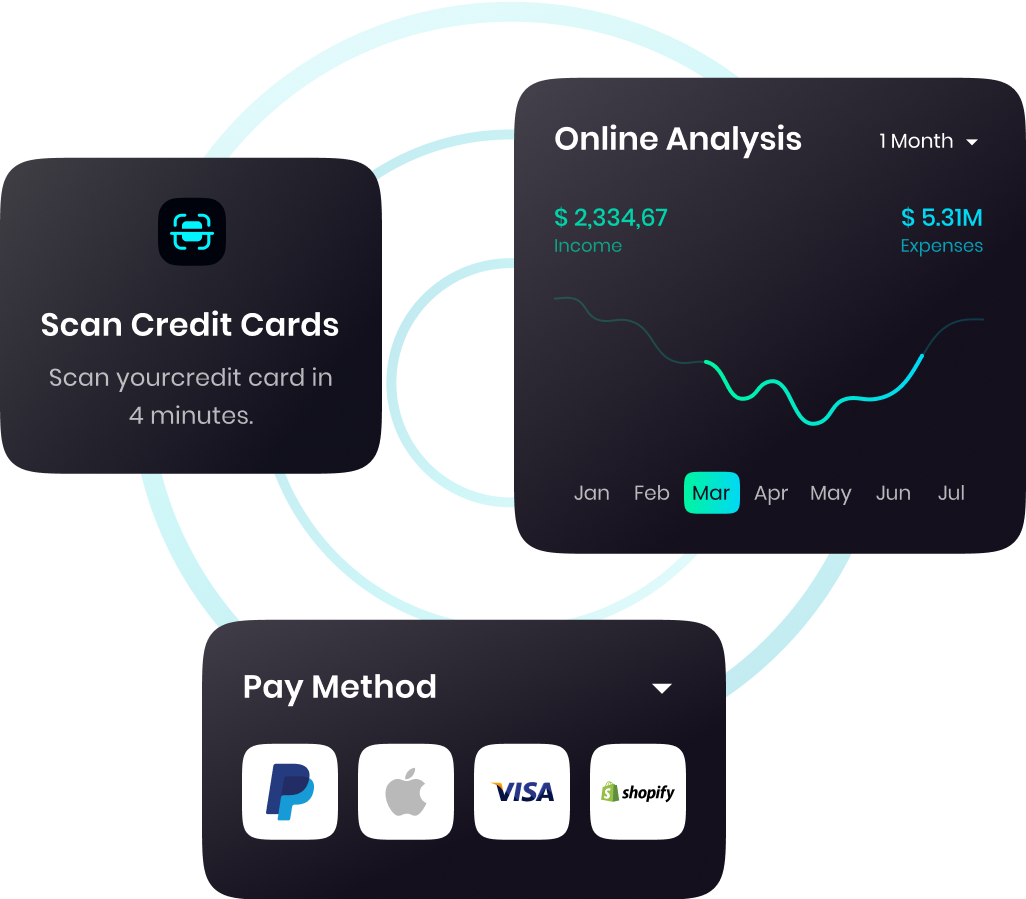
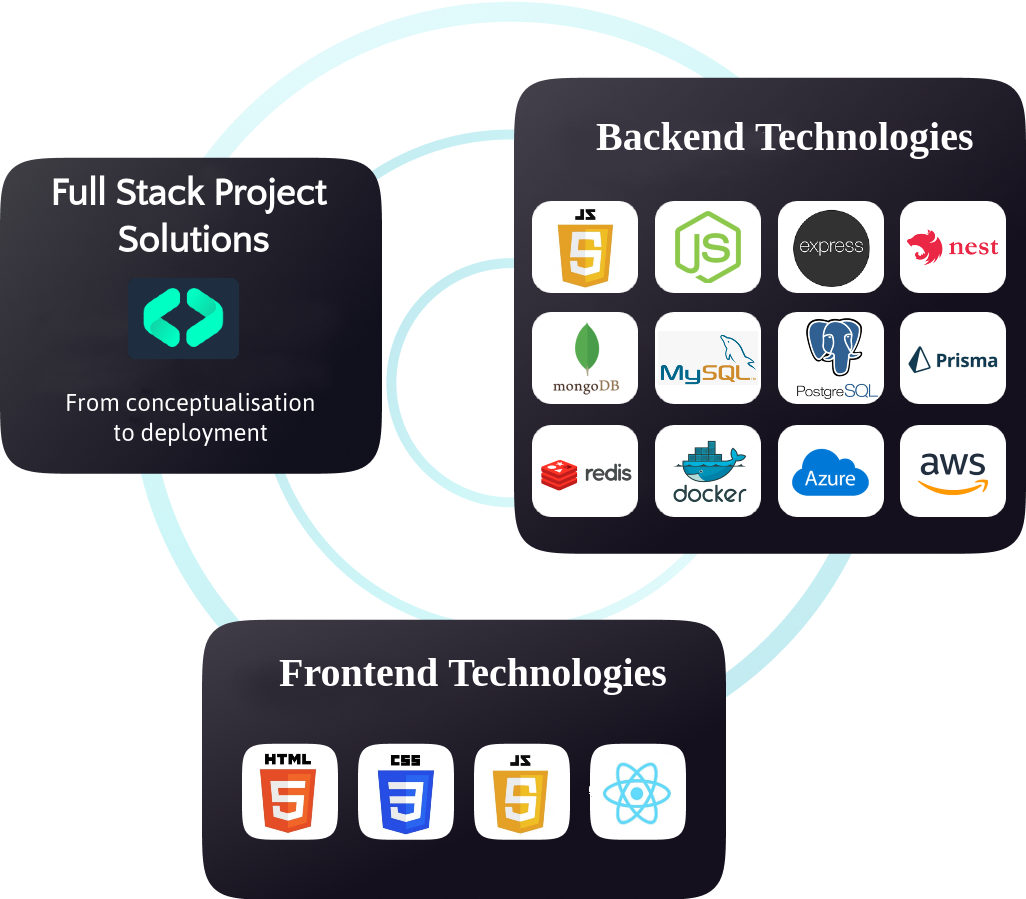
changes

diff --git a/src/constants/index.js b/src/constants/index.js
@@ -32,45 +32,51 @@ export const navLinks = [
     id: "clients",
     title: "Clients",
   },
+  {
+    id: "contactUs",
+    title: "Contact Us",
+  },
 ];
 
 export const features = [
   {
     id: "feature-1",
     icon: star,
-    title: "Rewards",
+    title: "Comprehensive Solutions",
     content:
-      "The best credit cards offer some tantalizing combinations of promotions and prizes",
+      "Our Full Stack Project Solutions encompass both frontend and backend development, providing a comprehensive approach to your academic projects.",
+
   },
   {
     id: "feature-2",
-    icon: shield,
-    title: "100% Secured",
+    icon: send,
+    title: "Customized Development",
     content:
-      "We take proactive steps make sure your information and transactions are secure.",
+      "Our team offers tailored development services, adapting to your specific requirements and academic needs to deliver personalized solutions.",
   },
   {
     id: "feature-3",
-    icon: send,
-    title: "Balance Transfer",
+    icon: shield,
+    title: "Timely Delivery",
     content:
-      "A balance transfer credit card can save you a lot of money in interest charges.",
+      "We are committed to delivering your projects on time, ensuring you meet your academic deadlines and achieve your academic goals.",
   },
 ];
+
 export const feedback = [
   {
     id: "feedback-1",
     content:
       "Exceptional assistance for my projects, achieving top grades.",
-    name: "Emma Johnson",
-    title: "College Student",
+    name: "Swapnil Zoting.",
+    title: "Student",
     img: people01,
   },
   {
     id: "feedback-2",
     content:
       "Timely and high-quality solutions, highly recommend their services.",
-    name: "Ryan Smith",
+    name: "Pratiksha Wanjari.",
     title: "College Student",
     img: people01,
   },
@@ -78,38 +84,13 @@ export const feedback = [
     id: "feedback-3",
     content:
       "Managed my workload effectively, enabling focus on academic life.",
-    name: "Sophia Williams",
+    name: "Himanshu Supare.",
     title: "College Student",
     img: people01,
   },
 ];
 
-/* export const feedback = [
-  {
-    id: "feedback-1",
-    content:
-      "Money is only a tool. It will take you wherever you wish, but it will not replace you as the driver.",
-    name: "Herman Jensen",
-    title: "Founder & Leader",
-    img: people01,
-  },
-  {
-    id: "feedback-2",
-    content:
-      "Money makes your life easier. If you're lucky to have it, you're lucky.",
-    name: "Steve Mark",
-    title: "Founder & Leader",
-    img: people02,
-  },
-  {
-    id: "feedback-3",
-    content:
-      "It is usually people in the money business, finance, and international trade that are really rich.",
-    name: "Kenn Gallagher",
-    title: "Founder & Leader",
-    img: people03,
-  },
-]; */
+
 
 export const stats = [
   {
@@ -240,12 +221,10 @@ export const clients = [
 ];
 
 
-
 export const projects = [
   {
     id: "project-1",
-    content:
-      "Developed an innovative mobile application for campus navigation, enhancing student experience.",
+    content: "Experience a curated showcase of my work, blending creativity. Dive in to explore design excellence tailored for today's digital landscape.",
     name: "John Doe",
     title: "Computer Science Student",
     img: project01, // You can replace this with the actual path to the image for the first project
@@ -253,7 +232,7 @@ export const projects = [
   {
     id: "project-2",
     content:
-      "Designed an interactive website for student organizations, fostering collaboration and engagement.",
+      "Embark on a journey with Travel Website, where one click opens door to new horizons. Discover and create unforgettable memories on our platform.",
     name: "Jane Smith",
     title: "Information Technology Student",
     img: project02, // You can replace this with the actual path to the image for the second project
@@ -269,9 +248,10 @@ export const projects = [
   {
     id: "project-4",
     content:
-      "Created a virtual laboratory platform for remote learning, enabling practical experience from anywhere.",
+    "Discover culinary delights that tantalize your taste buds. Dive into a world of flavors, fresh ingredients, and mouthwatering recipes.",
     name: "Emily Williams",
     title: "Biotechnology Student",
     img: project04, // You can replace this with the actual path to the image for the fourth project
   },
+  
 ];

diff --git a/src/components/CTA.jsx b/src/components/CTA.jsx
@@ -1,18 +1,76 @@
-import React from 'react';
+import React, { useState } from 'react';
 import styles from '../style';
 import Button from './Button';
 
 const CTA = () => {
+  const [formData, setFormData] = useState({
+    name: '',
+    email: '',
+    phone: '',
+    message: ''
+  });
+
+  const handleChange = (e) => {
+    const { name, value } = e.target;
+    setFormData(prevState => ({
+      ...prevState,
+      [name]: value
+    }));
+  };
+
+  const handleSubmit = (e) => {
+    e.preventDefault();
+    console.log(formData); // Handle form submission logic here
+  };
+
   return (
-    <section className={`${styles.flexCenter} ${styles.marginY} ${styles.padding} sm:flex-row flex-col bg-black-gradient-2 rounded-[20px] box-shadow`}>
-      <div className='flex-1 flex flex-col'>
-        <h2 className={styles.heading2}>Get Expert Help for Your Projects!</h2>
-        <p className={`${styles.paragraph} max-w-[470px] mt-5`}>
+    <section   id='contactUs'  className={`${styles.flexCenter} ${styles.marginY} ${styles.padding} sm:flex-row flex-col bg-black-gradient-2 rounded-[20px] box-shadow`}>
+      <div className='flex-1 flex flex-col items-center justify-center text-white'>
+        <h2 className={`${styles.heading2} text-2xl mb-4 text-center`}>Get Expert Help for Your Projects!</h2>
+        <p className={`${styles.paragraph} max-w-[470px] text-center mb-6`}>
           Simplify your academic life with our specialized assistance for college projects. Achieve top grades and focus on what matters most to you.
         </p>
-      </div>
-      <div className={`${styles.flexCenter} sm:ml-10 ml-0`}>
-        <Button/>
+        <form onSubmit={handleSubmit} className="w-full max-w-md px-4">
+          <input 
+            type="text" 
+            name="name" 
+            placeholder="Enter your name..." 
+            value={formData.name} 
+            onChange={handleChange}
+            className={`${styles.input} w-full p-3 mb-4 rounded-md placeholder-gray-400 focus:outline-none focus:ring-2 focus:ring-blue-500`}
+            required
+          />
+          <input 
+            type="email" 
+            name="email" 
+            placeholder="Enter your email..." 
+            value={formData.email} 
+            onChange={handleChange}
+            className={`${styles.input} w-full p-3 mb-4 rounded-md placeholder-gray-400 focus:outline-none focus:ring-2 focus:ring-blue-500`}
+            required
+          />
+          <input 
+            type="tel" 
+            name="phone" 
+            placeholder="Enter your phone number..." 
+            value={formData.phone} 
+            onChange={handleChange}
+            className={`${styles.input} w-full p-3 mb-4 rounded-md placeholder-gray-400 focus:outline-none focus:ring-2 focus:ring-blue-500`}
+            required
+          />
+          <textarea 
+            name="message" 
+            placeholder="Enter your message..." 
+            value={formData.message} 
+            onChange={handleChange}
+            className={`${styles.input} w-full p-3 mb-4 rounded-md placeholder-gray-400 focus:outline-none focus:ring-2 focus:ring-blue-500`}
+            rows="4"
+            required
+          />
+          <Button type="submit" className="bg-white text-blue-500 hover:bg-blue-500 hover:text-white transition duration-300 ease-in-out py-2 px-6 rounded-md shadow-md">
+            Submit
+          </Button>
+        </form>
       </div>
     </section>
   );

diff --git a/src/components/CardDeal.jsx b/src/components/CardDeal.jsx
@@ -6,15 +6,16 @@ import styles, { layout } from '../style'
 const CardDeal = () => {
   return (
     <section className={layout.section}>
-      <div className={layout.sectionInfo}>
-        <h2 className={styles.heading2}>Find a better card deal <br className='sm:block hidden'/>in few easy steps.</h2>
+
+      
+       <div className={layout.sectionInfo}>
+        <h2 className={styles.heading2}>Expertise in Full-Stack Development <br className='sm:block hidden'/>for Your Projects.</h2>
         <p className={`${styles.paragraph} max-w-[470px] mt-5`}>
-          Arcu tortor,
-          purus in mattis at sed integer faucibus.
-          Aliquet quis aliquet eget mauris tortor.ç 
-          Aliquet ultrices ac, ametau.
+          Need help with full-stack projects? 
+          Our team of experts specializes in both front-end and back-end development, providing comprehensive solutions tailored to your academic requirements. 
+          From designing user interfaces to implementing server-side functionalities, we've got you covered.
         </p>
-        <Button styles='mt-10'/>
+        {/* <Button styles='mt-10'/> */}
       </div>
       <div className={layout.sectionImg}>
         <img

diff --git a/src/components/OurProjects.jsx b/src/components/OurProjects.jsx
@@ -17,7 +17,7 @@ const OurProjects = () => {
   };
 
   return (
-    <section id='projects' className={`${styles.paddingY} ${styles.flexce} flex-col relative`}>
+    <section id='product' className={`${styles.paddingY} ${styles.flexce} flex-col relative`}>
       <div className='absolute z-[0] w-[60%] h-[60%] -right-[50%] rounded-full blue__gradient bottom-40' />
       <div className='w-full flex justify-between items-center md:flex-row flex-col sm:mb-16 mb-6 relative z-[1]'>
         <h2 className={styles.heading2}>Our Featured Projects</h2>

diff --git a/src/components/Feedback.jsx b/src/components/Feedback.jsx
@@ -13,11 +13,7 @@ const Feedback = ({ content, name, title, img }) => {
         {content}
       </p>
       <div className='flex flex-row'>
-        <img
-          src={img}
-          alt={name}
-          className='w-[48px] h-[48px] rounded-full'
-        />
+        
         <div className='flex flex-col ml-4'>
           <h4 className='font-poppins font-semibold text-[20px] leading-[32px] text-white'>{name}</h4>
           <p className='font-poppins font-normal text-[16px] leading-[24px] text-white'>{title}</p>

diff --git a/src/components/Billing.jsx b/src/components/Billing.jsx
@@ -1,5 +1,5 @@
 import React from 'react'
-import { apple, bill, google } from '../assets'
+import { apple, bill, google  , card} from '../assets'
 import styles, { layout } from '../style'
 
 const Billing = () => {
@@ -7,7 +7,7 @@ const Billing = () => {
     <section id='product' className={layout.sectionReverse}>
       <div className={layout.sectionImgReverse}>
         <img
-          src={bill}
+          src={card}
           alt='billing'
           className='w-[100%] h-[100%] relative z-[5]'
         />

diff --git a/src/components/Footer.jsx b/src/components/Footer.jsx
@@ -12,10 +12,7 @@ const Footer = () => {
             src={logo}
             alt='logo'
             className='w-[266px] h-[172px] object-contain'
-          />
-          <p className={`${styles.paragraph} mt-4 max-w-[310px]`}>
-            A new way to make the payments easy, reliable and secure.         
-          </p>
+          /> 
         </div>
         <div className='flex-[1.5] w-full flex flex-row justify-between flex-wrap md:mt-0 mt-10'>
           {footerLinks.map((link) => (

diff --git a/src/App.jsx b/src/App.jsx
@@ -29,9 +29,8 @@ const App = () => {
       <div className={`bg-primary ${styles.paddingX} ${styles.flexStart}`}>
         <div className={`${styles.boxWidth}`}>
           <Stats/>
-          <Business/>
-          {/* <Billing/>
-          <CardDeal/>  */}
+          <Business/> 
+          <CardDeal/>   
           <OurProjects/> 
           <Testimonials/>
           {/* <Clients/> */}

diff --git a/src/components/Business.jsx b/src/components/Business.jsx
@@ -35,7 +35,7 @@ const Business = () => {
           But with numerous assignments and deadlines to meet,
           let us simplify your journey to academic success.
         </p>
-        <Button styles='mt-10'/>
+        {/* <Button styles='mt-10' /> */}
       </div>
       <div className={`${layout.sectionImg} flex-col`}>
         {features.map((feature, index) => (
